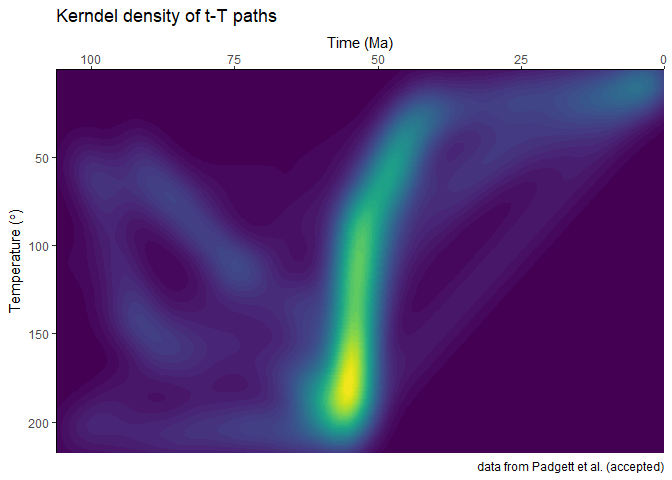
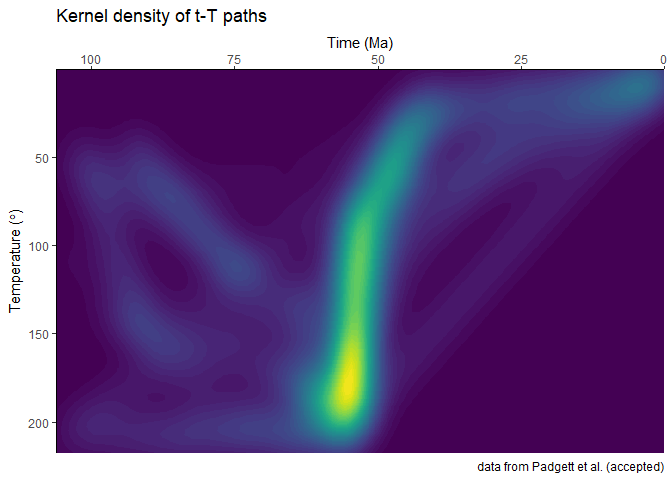
more cluster algorithms added

Changed region(s): [[0.125, 0.0, 0.4062, 0.0625]]

diff --git a/README.md b/README.md
@@ -22,8 +22,8 @@ command line prompt:
 remotes::install_github("padgett/HeFTy_SmoothR")
 ```
 
-The requirements for the import data are described in the detailed
-walkthrough in the vignette:
+The format requirements for the import data are described in the
+detailed walkthrough:
 
 ``` r
 vignette(package = "HeFTy.SmoothR")
@@ -42,7 +42,7 @@ tT_paths <- read_hefty_xlsx(path2myfile)
 
 plot_path_density_filled(tT_paths) +
   labs(
-    title = "Kerndel density of t-T paths",
+    title = "Kernel density of t-T paths",
     caption = "data from Padgett et al. (accepted)",
     x = "Time (Ma)",
     y = bquote("Temperature (" * degree * ")")
@@ -76,13 +76,13 @@ If you use this package in your research, please cite the following:
 
 Padgett, J., Enkelmann, E., Kellett, D., Moynihan, D., and Stephan, T.
 “Cenozoic exhumation and fault reactivation in southeastern Yukon
-constrained by low-temperature thermochronology’. accepted for
+constrained by low-temperature thermochronology”. accepted for
 publication in *Canadian Journal of Earth Sciences*. DOI:
 10.1139/cjes-2024-0147.
 
 ## Feedback, issues, and contributions
 
-I welcome feedback, suggestions, issues, and contributions! If you have
+We welcome feedback, suggestions, issues, and contributions! If you have
 found a bug, please file it
 [here](https://github.com/padgett/HeFTy_SmoothR/issues) with minimal
 code to reproduce the issue.
